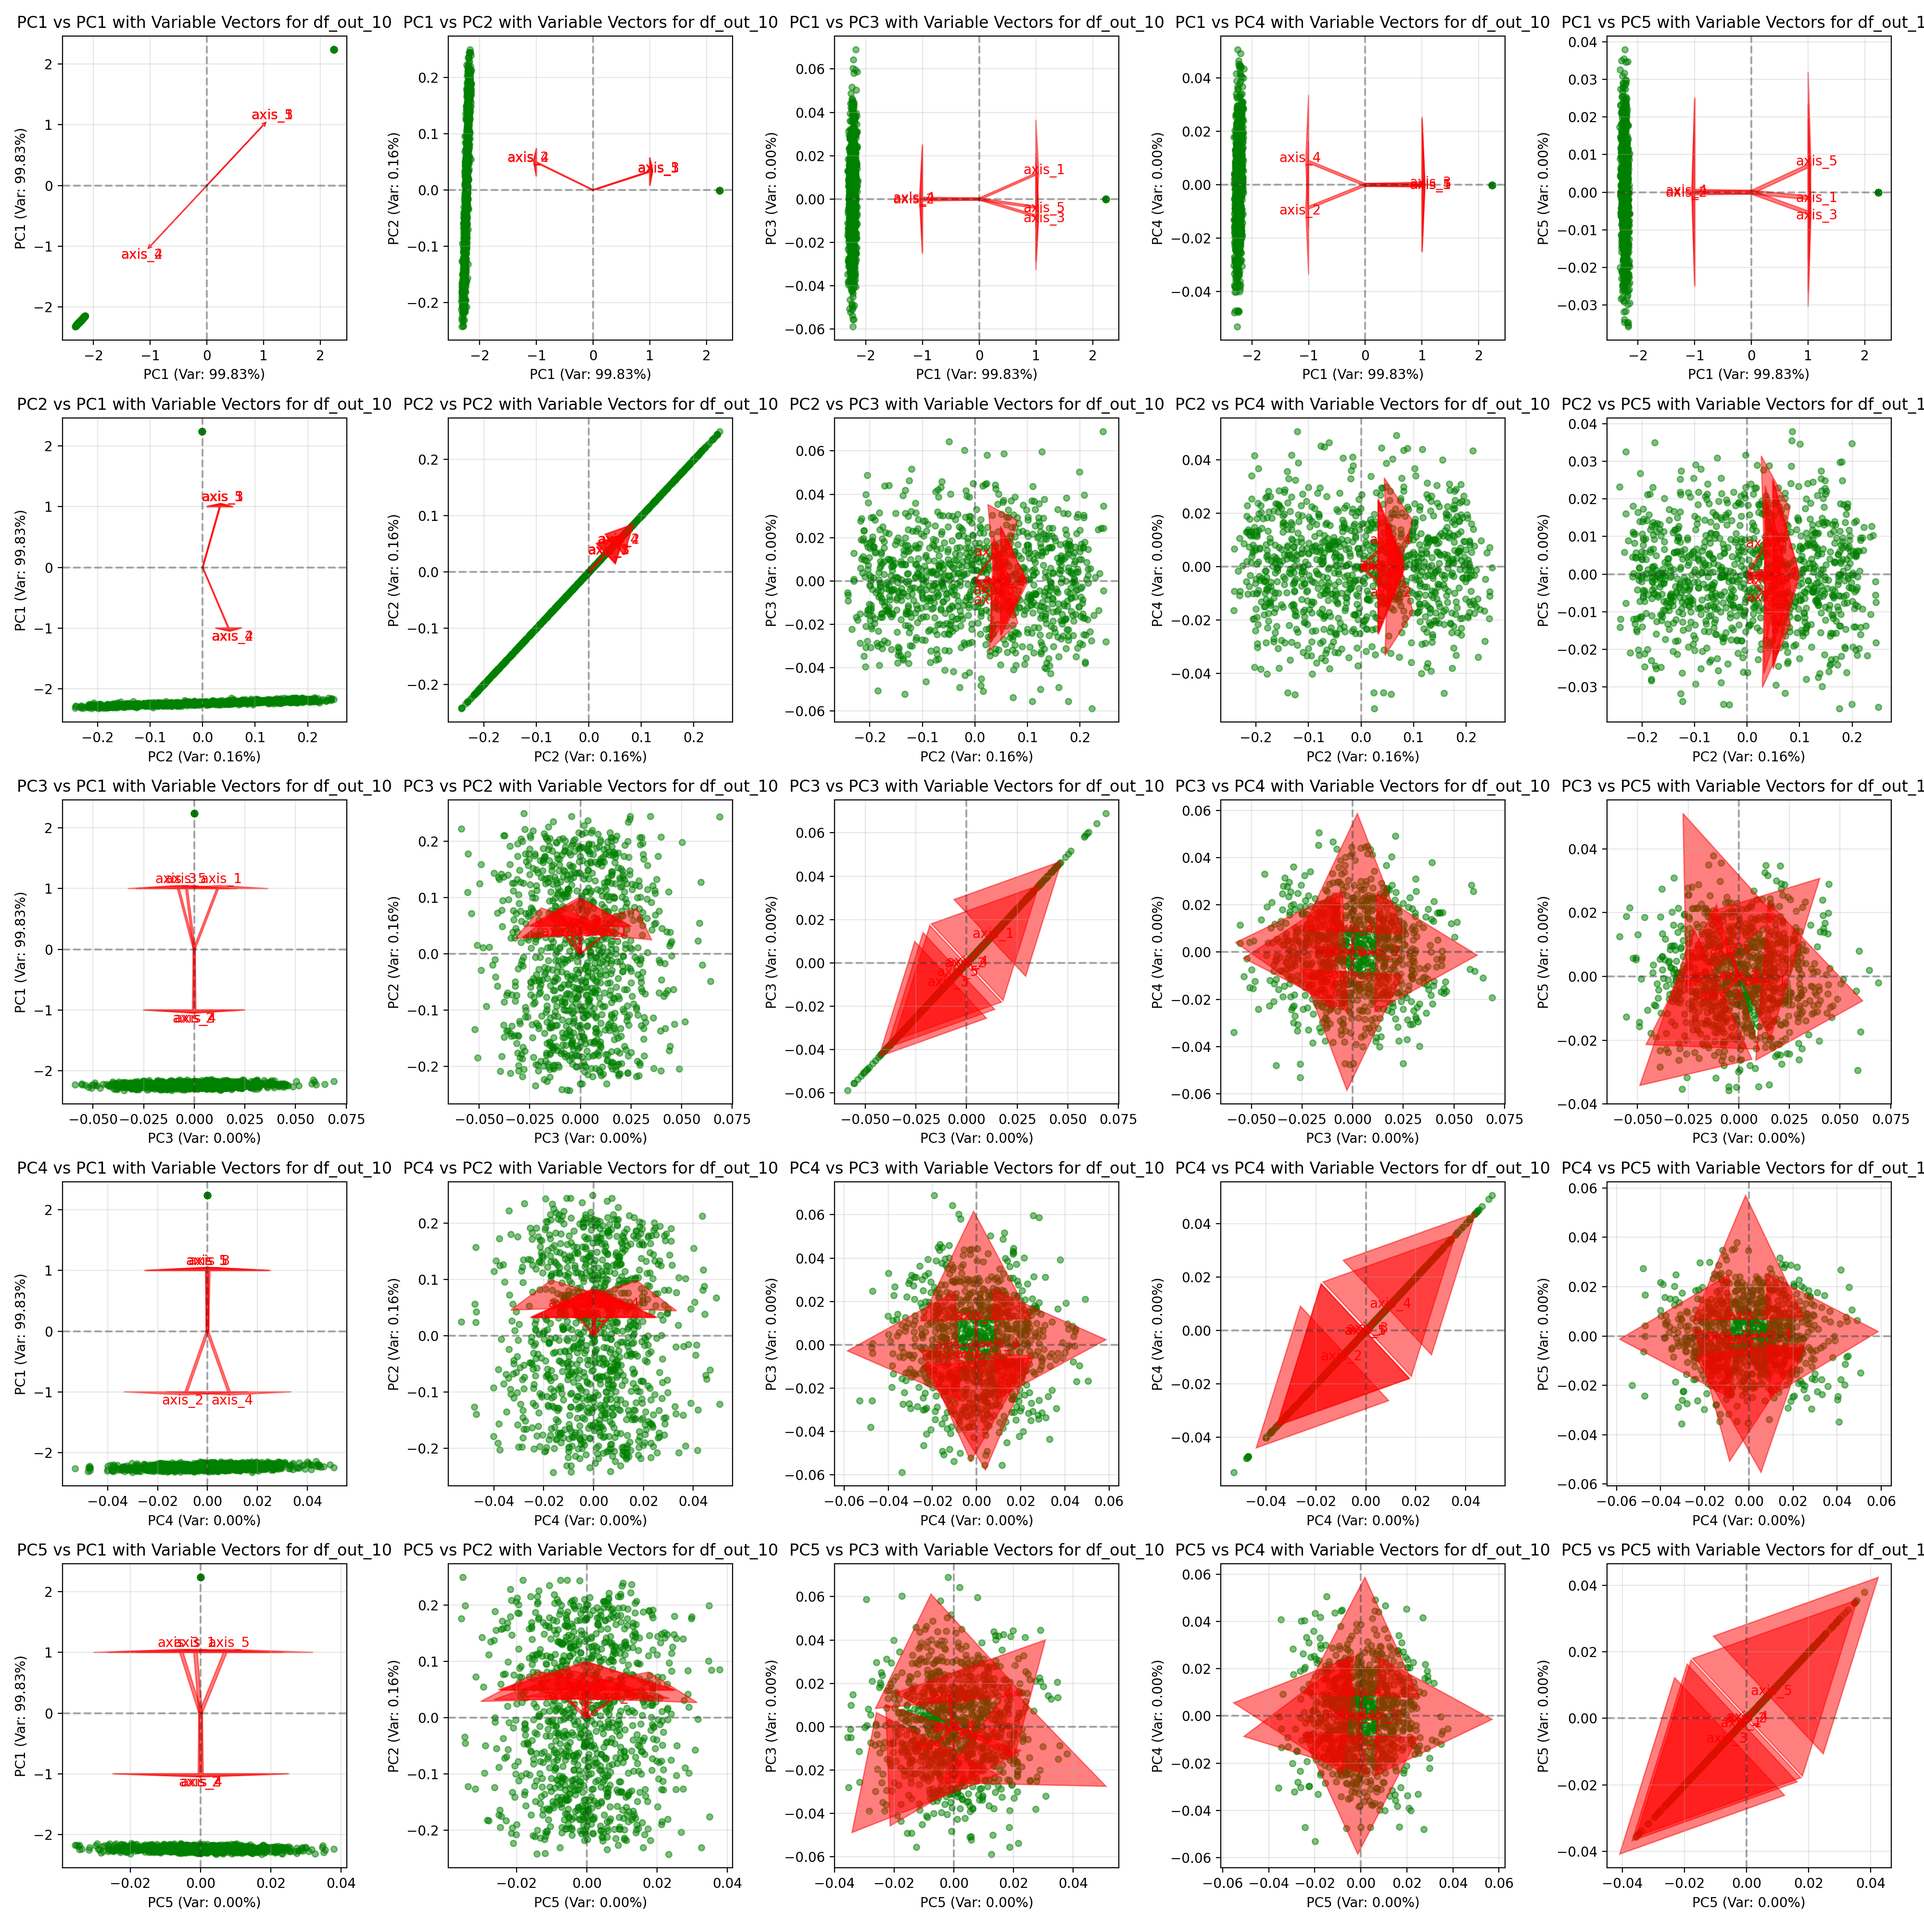
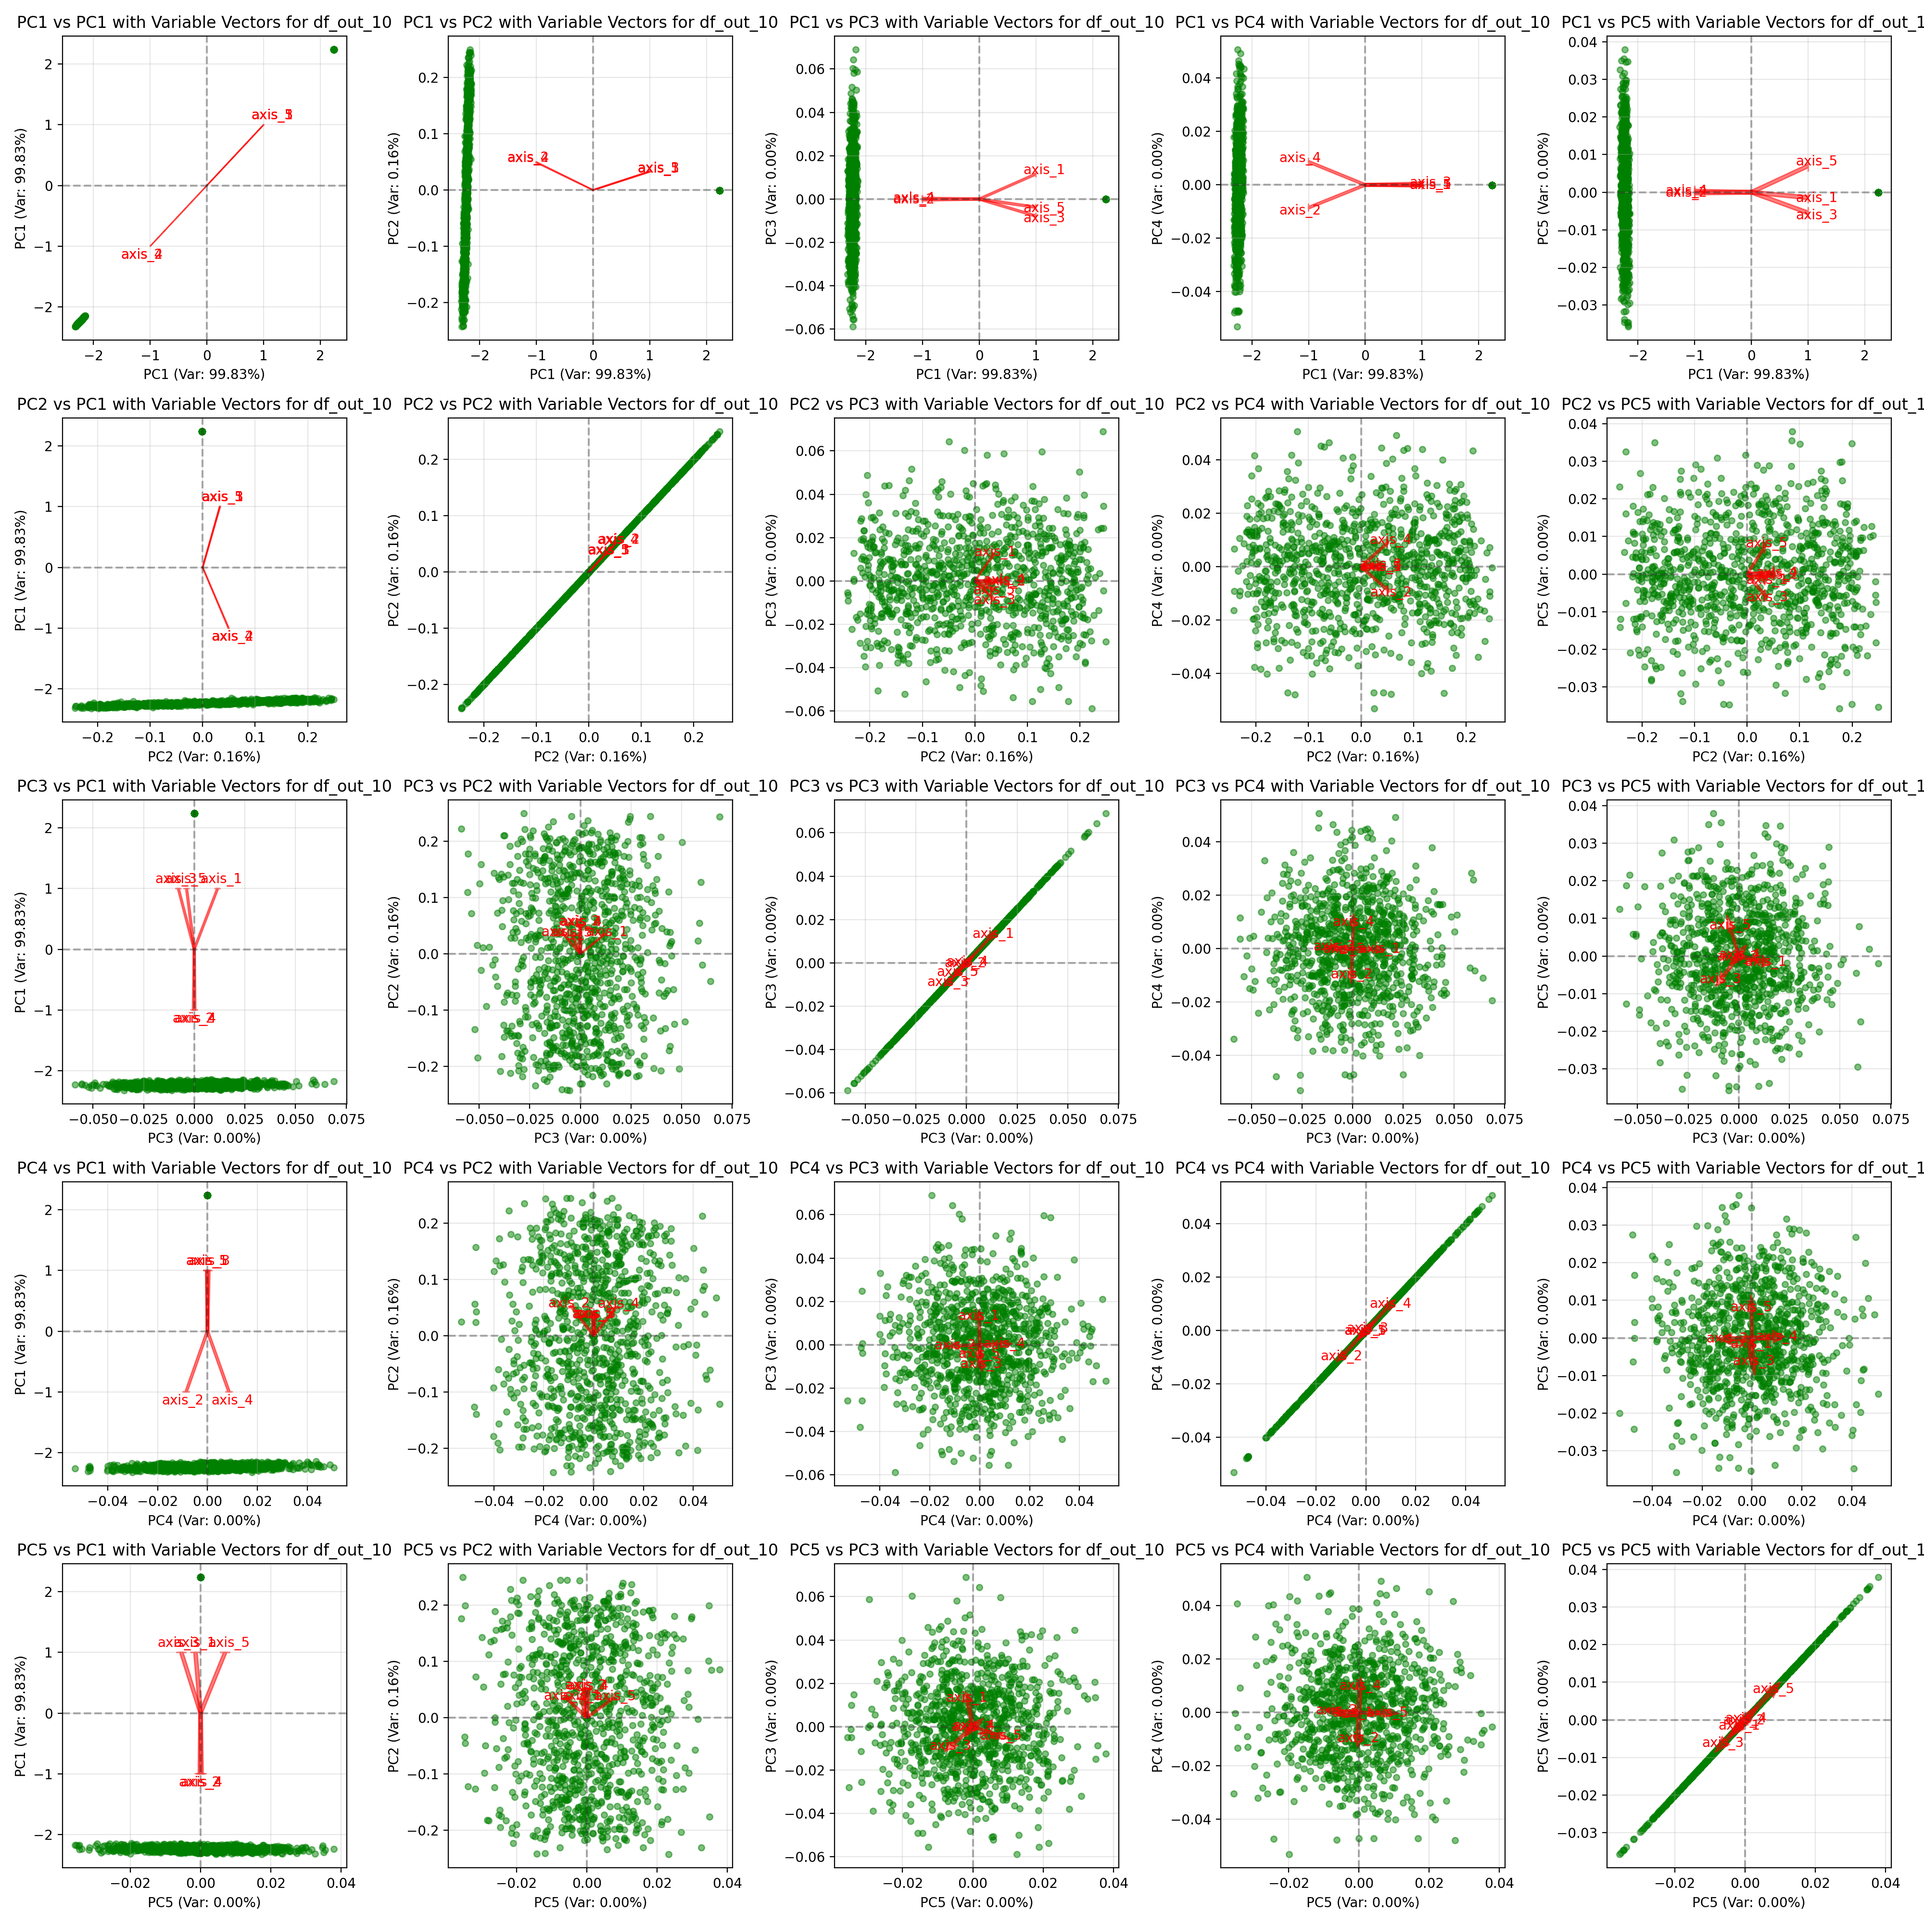
updated

diff --git a/task4/task4.py b/task4/task4.py
@@ -32,6 +32,9 @@ from sklearn.preprocessing import StandardScaler
 # from sklearn.datasets import make_blobs
 # from sklearn.linear_model import LinearRegression, LogisticRegression
 # from sklearn.metrics import roc_curve, auc
+import umap
+import pacmap
+from sklearn.manifold import TSNE
 
 
 # %% [markdown]
@@ -43,12 +46,14 @@ COLORS = ["green", "red", "blue"]
 EDGECOLOR = "#11111b"
 STYLES = ["o", "s", "^"]
 
-CACHED = False
+CACHED = True
 RECACHE = False
 CLEAR_CACHE = False
 
-CALC_COV = True
-CALC_GRID = True
+SHOW_CORRELATIONS = True
+SHOW_HISTS = True
+SHOW_GRID = True
+SHOW_METHODS = True
 
 # %% [markdown]
 #  ##### **_Plotter interface_**
@@ -196,7 +201,7 @@ class Plotter:
         self.set_xticks(range(1, len(explained_var) + 1))
         self.grid(True, alpha=0.3)
 
-    def components_projection(self, pca, title, pca_columns, columns):
+    def components_projection(self, pca, pca_df, title, pca_columns, columns):
         loadings = pca.components_.T * np.sqrt(pca.explained_variance_)
 
         for i, row_pca in enumerate(pca_columns):
@@ -206,8 +211,7 @@ class Plotter:
                 self.scatter(pca_df.iloc[:, i], pca_df.iloc[:, j], color="green", alpha=0.5, s=20, label='Objects')
                 
                 for var_idx in range(loadings.shape[0]):
-                    self.arrow(0, 0, loadings[var_idx, i], loadings[var_idx, j],
-                            head_width=0.05, head_length=0.05, fc='r', ec='r', alpha=0.5)
+                    self.arrow(0, 0, loadings[var_idx, i], loadings[var_idx, j], fc='r', ec='r', alpha=0.5)
                     self.text(loadings[var_idx, i] * 1.15, loadings[var_idx, j] * 1.15,
                            f'{columns[var_idx]}', color='r', ha='center', va='center')
                 
@@ -405,6 +409,7 @@ def get_cov_matrixes(df, features):
 np.random.seed(42)
 COLUMNS = [f'axis_{i + 1}' for i in range(5)]
 
+@cached()
 def generate_dataset(A, k, n=1000):
     line_points = np.linspace(0, A, n)
     base_data = np.vstack([line_points] * 5).T
@@ -423,18 +428,18 @@ print(df.describe())
 print(df.head())
 
 # %%
-cov_matrixes = get_cov_matrixes(df, COLUMNS)
+if SHOW_CORRELATIONS:
+    cov_matrixes = get_cov_matrixes(df, COLUMNS)
 
-plotter = Plotter(nrows=2, ncols=2, figsize=(16, 16))
+    plotter = Plotter(nrows=2, ncols=2, figsize=(16, 16))
 
-for i, label in enumerate(["Pearson", "Pearson p-value", "Spearman", "Spearman p-value"]):
-    plotter.set_position(idx=i)
-    plotter.imshow(cov_matrixes[..., i], cmap="inferno", vmin=0.0, vmax=1.0)
-    plotter.labels("", "", label)
+    for i, label in enumerate(["Pearson", "Pearson p-value", "Spearman", "Spearman p-value"]):
+        plotter.set_position(idx=i)
+        plotter.imshow(cov_matrixes[..., i], cmap="inferno", vmin=0.0, vmax=1.0)
+        plotter.labels("", "", label)
 
-plotter.tight_layout()
-plotter.save(f"{SAVE_DIR}/corelations.png")
-
+    plotter.tight_layout()
+    plotter.save(f"{SAVE_DIR}/corelations.png")
 
 # %%
 all_data = []
@@ -469,50 +474,56 @@ print(data)
 #  ##### **_Hists_**
 # %%
 
-plotter = Plotter(nrows=5, ncols=1, figsize=(10, 20))
+if SHOW_HISTS:
+    plotter = Plotter(nrows=5, ncols=1, figsize=(10, 20))
 
-for i, col in enumerate(COLUMNS):
-    plotter.set_position(idx=i)
+    for i, col in enumerate(COLUMNS):
+        plotter.set_position(idx=i)
 
-    plotter.hist(
-        df[col],
-        bins=30,
-        color="green",
-        alpha=0.5,
-        edgecolor=EDGECOLOR,
-        label="Features hist",
-    )
-    plotter.labels("value", "count", col)
-    plotter.grid(True, alpha=0.3)
-    plotter.legend()
+        plotter.hist(
+            df[col],
+            bins=30,
+            color="green",
+            alpha=0.5,
+            edgecolor=EDGECOLOR,
+            label="Features hist",
+        )
+        plotter.labels("value", "count", col)
+        plotter.grid(True, alpha=0.3)
+        plotter.legend()
 
-plotter.tight_layout()
-plotter.save(f"{SAVE_DIR}/df_hists.png", dpi=DPI)
+    plotter.tight_layout()
+    plotter.save(f"{SAVE_DIR}/df_hists.png", dpi=DPI)
 
 
 # %% [markdown]
 #  ##### **_Show grid_**
 # %%
-plotter = Plotter(nrows=5, ncols=5, figsize=(20, 20))
+if SHOW_GRID:
+    plotter = Plotter(nrows=5, ncols=5, figsize=(20, 20))
 
-plotter.dataset_visual(df[COLUMNS], df["target"], COLORS, STYLES, EDGECOLOR, alpha=0.6)
+    plotter.dataset_visual(df[COLUMNS], df["target"], COLORS, STYLES, EDGECOLOR, alpha=0.6)
 
-plotter.tight_layout()
-plotter.save(f"{SAVE_DIR}/df_5x5.png", dpi=200)
+    plotter.tight_layout()
+    plotter.save(f"{SAVE_DIR}/df_5x5.png", dpi=200)
 
 
 # %%
-df_out = []
-m = 1000
-for i in [1, 2, 5, 10]:
-    row = (A * i, -A * i, A * i, -A * i, A * i, 0)
-    local_df = df.copy()
+@cached()
+def calc_out(base_df):
+    df_out = []
+    m = 1000
+    for i in [1, 2, 5, 10]:
+        row = (A * i, -A * i, A * i, -A * i, A * i, 0)
+        local_df = base_df.copy()
 
-    new_df = pd.DataFrame([row] * m, columns=df.columns)
-    local_df = pd.concat([local_df, new_df], ignore_index=True)
+        new_df = pd.DataFrame([row] * m, columns=df.columns)
+        local_df = pd.concat([local_df, new_df], ignore_index=True)
 
-    df_out.append(local_df)
+        df_out.append(local_df)
 
+
+df_out = calc_out(df)
 
 plotter = Plotter(nrows=5, ncols=5, figsize=(20, 20))
 
@@ -523,10 +534,8 @@ plotter.save(f"{SAVE_DIR}/df_out_5x5.png", dpi=200)
 
 
 # %%
-pca = PCA()
-scaler = StandardScaler()
-
-for ldf, name in zip([df] + df_out, ["df", "df_out_1", "df_out_2", "df_out_5", "df_out_10"]):
+@cached()
+def make_pca_plots(ldf, name, pca, scaler):
     data_scaled = scaler.fit_transform(ldf[COLUMNS])
     pca_df = pca.fit_transform(data_scaled)
     PCA_COLUMNS = [f'PC{i + 1}' for i in range(pca_df.shape[1])]
@@ -540,7 +549,12 @@ for ldf, name in zip([df] + df_out, ["df", "df_out_1", "df_out_2", "df_out_5", "
     plotter.save(f"{SAVE_DIR}/scree_{name}.png")
 
     plotter = Plotter(5, 5, figsize=(20, 20))
-    plotter.components_projection(pca, name, PCA_COLUMNS, COLUMNS)
+    plotter.dataset_visual(pca_df[PCA_COLUMNS], pca_df["target"], COLORS, STYLES, EDGECOLOR)
+    plotter.tight_layout()
+    plotter.save(f"{SAVE_DIR}/pca_without_vectors_for_{name}.png", dpi=200)
+
+    plotter = Plotter(5, 5, figsize=(20, 20))
+    plotter.components_projection(pca, pca_df, name, PCA_COLUMNS, COLUMNS)
     plotter.tight_layout()
     plotter.save(f"{SAVE_DIR}/pca_with_vectors_for_{name}.png", dpi=200)
 
@@ -548,4 +562,112 @@ for ldf, name in zip([df] + df_out, ["df", "df_out_1", "df_out_2", "df_out_5", "
     plotter.old_and_new_correlation(pca, name, PCA_COLUMNS, COLUMNS)
     plotter.tight_layout()
     plotter.save(f"{SAVE_DIR}/pca_with_old_obj_for_{name}.png", dpi=200)
+
+    return pca_df
+
+# %%
+pca = PCA()
+scaler = StandardScaler()
+
+pca_df = make_pca_plots(df, "df", pca, scaler)
+# %%
+pca_out_1_df = make_pca_plots(df_out[0], "df_out_1", pca, scaler)
+# %%
+pca_out_2_df = make_pca_plots(df_out[1], "df_out_2", pca, scaler)
+# %%
+pca_out_5_df = make_pca_plots(df_out[2], "df_out_5", pca, scaler)
+# %%
+pca_out_10_df = make_pca_plots(df_out[3], "df_out_10", pca, scaler)
+
+# %%
+
+def make_methods(n_components):
+    return {
+        'UMAP': {
+            'func': lambda seed, pca_df: umap.UMAP(
+                n_components=n_components,
+                random_state=seed,
+                n_neighbors=min(15, pca_df.shape[0] // 10),
+                min_dist=0.1,
+                metric='euclidean'
+            ).fit_transform(pca_df),
+            'color': 'blue'
+        },
+        'PaCMAP': {
+            'func': lambda seed, pca_df: pacmap.PaCMAP(
+                n_components=n_components,
+                random_state=int(seed),
+                n_neighbors=None,
+                MN_ratio=0.5,
+                FP_ratio=2.0
+            ).fit_transform(pca_df),
+            'color': 'green'
+        },
+        't-SNE': {
+            'func': lambda seed, pca_df: TSNE(
+                n_components=n_components,
+                random_state=seed,
+                perplexity=min(30, pca_df.shape[0] // 10),
+                max_iter=1000,
+                init='random'
+            ).fit_transform(pca_df),
+            'color': 'red'
+        }
+    }
+# %%
+@cached()
+def calc_projections(seeds, methods, df, pca_df):
+    PCA_COLUMNS = pca_df.columns[:-1]
+    res = {}
+    for name in methods.keys():
+        res[name] = {}
+        for j, seed in enumerate(seeds):
+            projections = methods[name]["func"](seed, df[COLUMNS])
+            res[name][f"with seed {j}"] = projections
+        projections_pca = methods[name]["func"](seed, pca_df[PCA_COLUMNS])
+        res[name]["after PCA"] = projections_pca
+
+
+def show_projections(proj, df_name):
+    plotter = Plotter(3, 5, figsize=(22, 15))
+
+    for i, name in enumerate(proj.keys()):
+        for j, add_title in enumerate(proj[name].keys()):
+            plotter.set_position(irow=i, icol=j)
+            plotter.scatter(proj[name][add_title][..., 0], proj[name][add_title][..., 1], color=COLORS[i], marker=STYLES[i], alpha=0.5)
+            plotter.grid(True, alpha=0.3)
+            plotter.labels("C1", "C2", f"{name} for {df_name} {add_title}")
+
+    plotter.tight_layout()
+    plotter.save(f"{SAVE_DIR}/UMAP_PacMAP_t-SNE_for_{df_name}.png", dpi=DPI)
+
+# %%
+
+
+n_random_starts = 4
+random_seeds = np.random.randint(0, 10000, n_random_starts)
+
+methods = make_methods(2)
+
+# %%
+if SHOW_METHODS:
+    proj_df = calc_projections(random_seeds, methods, df, pca_df)
+    show_projections(proj_df, "df")
+# %%
+if SHOW_METHODS:
+    proj_df_out_1 = calc_projections(random_seeds, methods, df_out[0], pca_out_1_df)
+    show_projections(proj_df_out_1, "df")
+# %%
+if SHOW_METHODS:
+    proj_df_out_2 = calc_projections(random_seeds, methods, df_out[1], pca_out_2_df)
+    show_projections(proj_df_out_2, "df")
+# %%
+if SHOW_METHODS:
+    proj_df_out_5 = calc_projections(random_seeds, methods, df_out[2], pca_out_5_df)
+    show_projections(proj_df_out_5, "df")
+# %%
+if SHOW_METHODS:
+    proj_df_out_10 = calc_projections(random_seeds, methods, df_out[3], pca_out_10_df)
+    show_projections(proj_df_out_10, "df")
+
 
